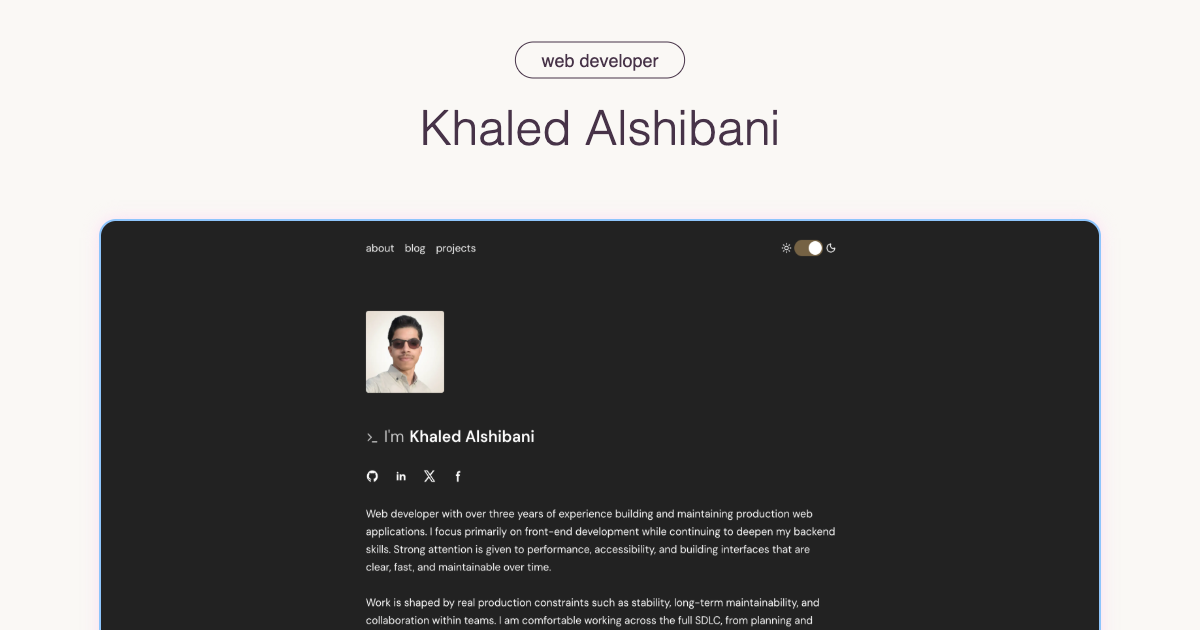
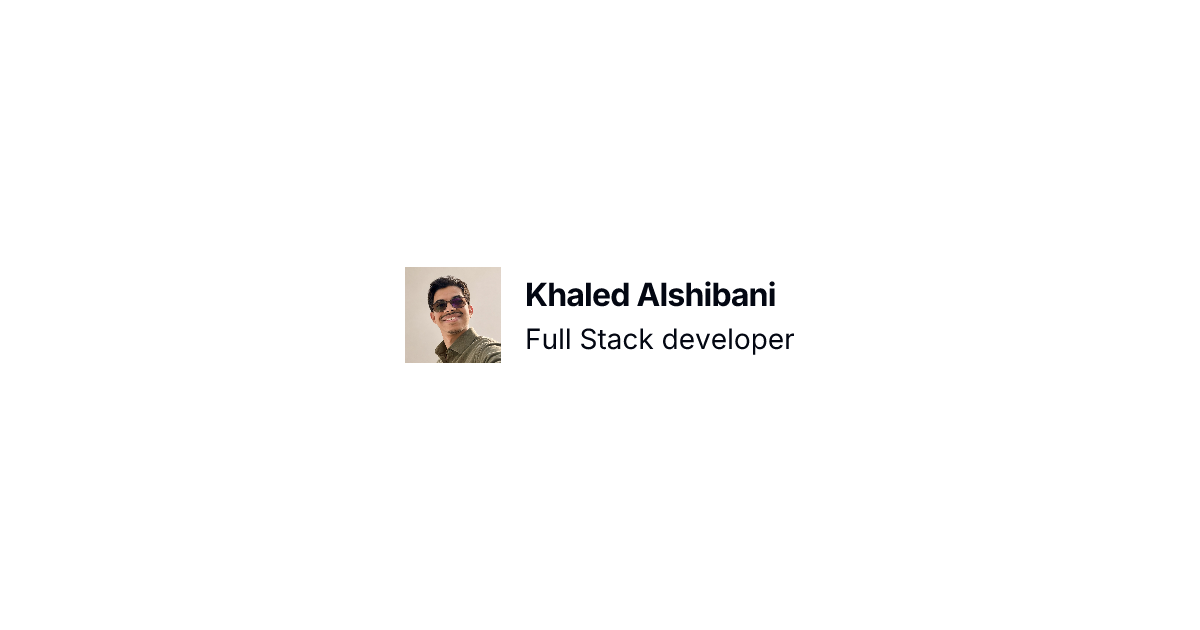
feat: update og images

diff --git a/src/routes/__root.tsx b/src/routes/__root.tsx
@@ -16,6 +16,7 @@ const defaultTitle = 'Khaled Alshibani - Full Stack Developer'
 const defaultDescription =
   'Full stack web developer with strong frontend foundation, production experience, and focus on performance, stability, and maintainable modern applications.'
 const ogImage = `${SITE_URL}/og.png`
+const twitterOgImage = `${SITE_URL}/twitter-og.png`
 
 export const Route = createRootRoute({
   loader: async () => await getHeaderContent(),
@@ -70,7 +71,7 @@ export const Route = createRootRoute({
       },
       {
         name: 'twitter:image',
-        content: ogImage,
+        content: twitterOgImage,
       },
       {
         name: 'twitter:url',
